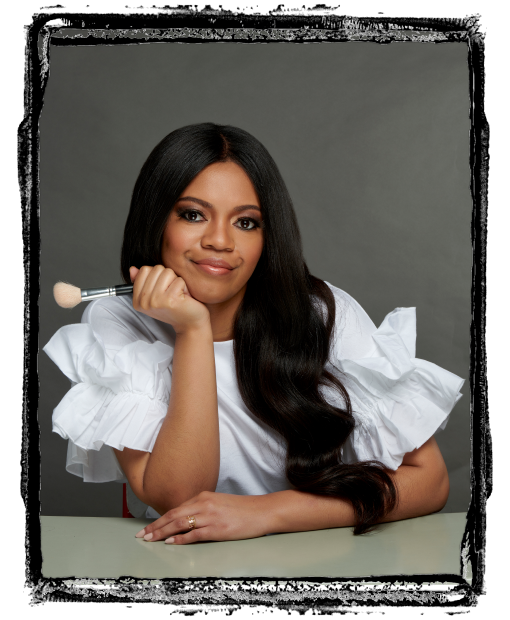
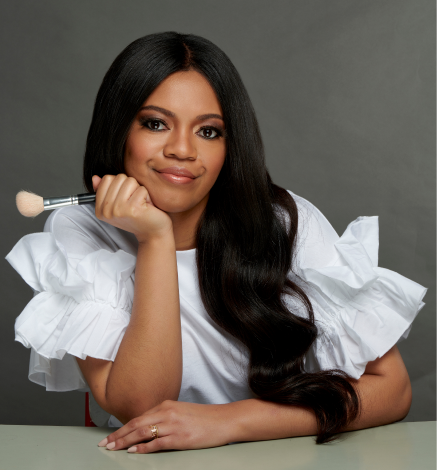
about us page now like uoma

diff --git a/app/assets/stylesheets/pages/_about_us.scss b/app/assets/stylesheets/pages/_about_us.scss
@@ -2,17 +2,91 @@
   background-size: cover;
   background-position: top;
   @include absCenterColumn;
-  padding: 40px 0;
-  @include for-phone-only {
-    padding: 0;
+  padding: 0;
+  padding-bottom: 10vh;
+}
+.about-us-top-cont {
+  height: calc(100vh - 100px);
+  width: 100%;
+  display: flex;
+  justify-content: flex-end;
+  @include for-medium-devices-down {
+    justify-content: center;
+    height: calc(80vh - 100px);
   }
-  @include for-xxlarge-devices-up {
-    padding: 40px 0 200px 0
+  @include for-small-devices-down {
+    height: calc(55vh - 100px);
+    padding-top: 10%;
+  }
+}
+.about-us-top {
+  position: relative;
+  height: 100%;
+  width: 67%;
+  background-size: cover;
+  background-position: center;
+  h1 {
+    font-size: 3.5rem;
+    position: absolute;
+    bottom: 10%;
+    left: 10%;
+    color: white;
+    font-weight: boldest;
+  }
+  @include for-medium-devices-down {
+    width: 100%;
+  }
+  @include for-small-devices-down {
+    width: 100%;
+    h1 {
+      font-size: 3rem;
+    }
   }
 }
 html {
   scroll-behavior: smooth;
 }
+
+.about-us-cont {
+  padding-top: 80px;
+  width: 90%;
+  display: flex;
+  justify-content: center;
+  align-items: center;
+  @include for-small-devices-down {
+    width: 100%;
+    flex-direction: column;
+  }
+}
+.about-us-img {
+  width: 50%;
+  @include for-small-devices-down {
+    width: 100%;
+  }
+}
+.about-us-text {
+  width: 50%;
+  padding: 5%;
+  h1 {
+    font-weight: boldest;
+    font-size: 4rem;
+  }
+  @include for-small-devices-down {
+    width: 100%;
+    h1 {
+      font-size: 3rem;
+    }
+  }
+}
+.rev {
+  @include for-small-devices-up {
+    flex-direction: row-reverse;
+  }
+  @include for-small-devices-down {
+    flex-direction: column;
+  }
+}
+
 .about-us-banner {
   display: flex;
   justify-content: center;
@@ -53,19 +127,7 @@ html {
   // }
 }
 
-.about-us-text {
-  width: 40%;
-  h3 {
-    margin-bottom: 30px;
-    font-weight: 900;
-  }
-  h4 {
-    font-weight: 900;
-  }
-  @include for-phone-only {
-    width: 100%;
-  }
-}
+
 
 .our-history-banner {
   width: 70%;
